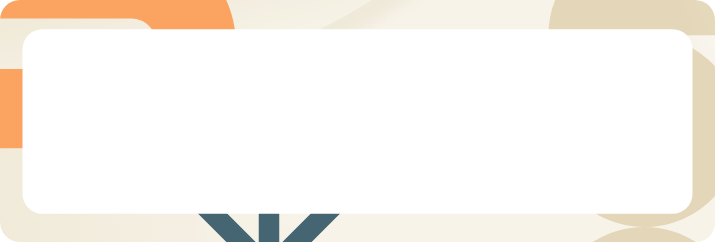
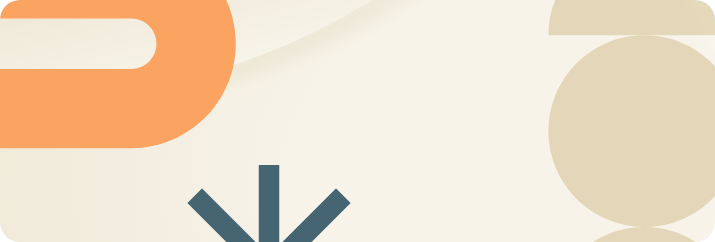
tema 9

diff --git a/src/views/Tema9.vue b/src/views/Tema9.vue
@@ -15,6 +15,217 @@
           p.mb-0 En los procesos de fabricación y acabado de piezas de joyería, resulta esencial garantizar que los metales mantengan una apariencia limpia, uniforme y libre de impurezas superficiales que puedan afectar su calidad final. Durante las distintas etapas de conformado, soldadura o calentamiento, los metales desarrollan residuos, manchas u óxidos que dificultan su manipulación y alteran su estética. Para enfrentar estos retos, los joyeros recurren a un procedimiento químico específico que permite restaurar la superficie del metal y prepararlo adecuadamente para los siguientes pasos del trabajo artesanal o industrial.
 
     Separador
+    .row.justify-content-center.z-2
+      .col-xl-10
+        #t_9_1.titulo-segundo.color-acento-contenido
+          .h2(data-aos="fade-right") 9.1 Concepto
+    
+    .row.justify-content-center.align-items-center.z-2
+      .col-6.col-md-4.col-lg-2
+        figure
+          img.mb-4.mb-lg-0(src="@/assets/curso/temas/tema9/2.png" alt="Imagen decorativa" data-aos="fade-down")
+      .col-lg-8
+        p El decapado es un proceso químico utilizado para eliminar los óxidos, manchas y residuos superficiales que se forman en los metales preciosos (oro, plata, cobre, bronce) después de ser sometidos a calentamiento, soldadura o recocido. El metal se sumerge en una solución ácida llamada pickle, cuya función es limpiar la superficie sin alterar la estructura interna del material. El resultado es un metal más limpio, brillante y apto para posteriores acabados como pulido, engaste o baños galvánicos.
+
+    Separador
+    .row.justify-content-center.z-2
+      .col-xl-10
+        #t_9_2.titulo-segundo.color-acento-contenido
+          .h2(data-aos="fade-right") 9.2 Clases
+    .row.justify-content-center.align-items-center.mb-5
+      .col-10.col-md-6.col-lg-3
+        figure
+          img.mb-4.mb-lg-0(src="@/assets/curso/temas/tema9/3.png" alt="Imagen decorativa" data-aos="fade-down")
+      .col-lg-7
+        p Las diversas clases de decapado utilizadas en joyería surgen de la necesidad de adaptar el proceso de limpieza a las características del metal, al nivel de oxidación presente y al tipo de tratamiento térmico o de soldadura aplicado previamente. Estas variantes permiten seleccionar el método más adecuado según la intensidad de los residuos, la delicadeza de la pieza y los resultados esperados, garantizando así un procedimiento seguro, eficiente y acorde con las exigencias técnicas del trabajo joyero.
+        p.mb-0 Aunque todos cumplen la misma función, pueden clasificarse según su intensidad y finalidad:
+
+    .row.justify-content-center.z-2.mb-4.mb-lg-5
+      .col-sm-6.col-xl-4.mb-4.mb-xl-0
+        .crd_hover_txt(data-aos="flip-left")
+          .crd_hover_txt--img
+            figure
+              img(data-aos="fade-down")(src="@/assets/curso/temas/tema9/4.png", alt="Imagen decorativa")
+          .crd_hover_txt--body.bg-color-primario-p5
+            h4.mb-4.text-center Decapado suave
+            ul.checklist
+              li.mb-3 Diseñado para piezas delicadas o metales sensibles.
+              li.mb-3 Utiliza ácidos poco concentrados.
+              li Limpia óxidos ligeros y manchas superficiales.
+              
+
+      .col-sm-6.col-xl-4.mb-4.mb-xl-0
+        .crd_hover_txt(data-aos="flip-left")
+          .crd_hover_txt--img
+            figure
+              img(data-aos="fade-down")(src="@/assets/curso/temas/tema9/5.png", alt="Imagen decorativa")
+          .crd_hover_txt--body.bg-color-primario-p5
+            h4.mb-4.text-center Decapado fuerte
+            ul.checklist
+              li.mb-3 Empleado cuando hay alta presencia de óxidos o residuos endurecidos.
+              li.mb-3 Utiliza soluciones más potentes y requiere mayor control.
+              li No es recomendado para piezas frágiles o con gemas sensibles.
+
+      .col-sm-6.col-xl-4.mb-4.mb-xl-0
+        .crd_hover_txt(data-aos="flip-left")
+          .crd_hover_txt--img
+            figure
+              img(data-aos="fade-down")(src="@/assets/curso/temas/tema9/6.png", alt="Imagen decorativa")
+          .crd_hover_txt--body.bg-color-primario-p5
+            h4.mb-4.text-center Decapado electrolítico
+            ul.checklist
+              li.mb-3 Combina solución ácida con corriente eléctrica.
+              li.mb-3 Acelera el proceso de limpieza.
+              li Puede ser más eficiente en metalurgia de precisión.
+
+
+    Separador
+    .row.justify-content-center.z-2
+      .col-xl-10
+        #t_9_3.titulo-segundo.color-acento-contenido
+          .h2(data-aos="fade-right") 9.3 Técnicas
+    
+    .row.justify-content-center.align-items-center.z-2.mb-5
+      .col-6.col-md-4.col-lg-2
+        figure
+          img.mb-4.mb-lg-0(src="@/assets/curso/temas/tema9/7.png" alt="Imagen decorativa" data-aos="fade-down")
+      .col-lg-8
+        p Las técnicas de decapado en joyería se diferencian principalmente por la forma en que se aplica el agente químico y por la intensidad del proceso requerido para eliminar los óxidos y residuos metálicos. Cada método busca optimizar la limpieza según la naturaleza de la pieza y el tipo de trabajo realizado, garantizando una superficie uniforme y lista para los acabados posteriores.
+
+    .titulo-sexto.color-acento-contenido.mb-4.z-2
+      h5 Tabla 10.
+      span Técnicas de decapado
+    .tabla-a.color-secundario.tabla-a--left.z-2
+      table
+        caption <strong>Fuente:</strong> SENA, 2025.
+        thead(style="background-color: #FAF8F4;")
+          tr
+            th Técnica de decapado
+            th Descripción
+            th Aplicación típica
+            th Ventajas
+            th Limitaciones
+        tbody
+          tr
+            td <strong>Decapado químico por inmersión.</strong>
+            td La pieza se sumerge en una solución ácida caliente para remover óxidos superficiales.
+            td Limpieza de piezas después de soldaduras o recocidos.
+            td Eficiente, uniforme y rápido.
+            td Requiere control de temperatura y manejo cuidadoso de ácidos.
+          tr
+            td <strong>Decapado químico por aplicación localizada.</strong>
+            td El ácido se aplica solo en áreas específicas usando pincel o gotero.
+            td Piezas delicadas o con zonas sensibles a la corrosión.
+            td Reduce riesgo de afectar áreas no deseadas.
+            td Menos uniforme y más lento.
+          tr
+            td <strong>Decapado mecánico suave.</strong>
+            td Uso de abrasivos finos (fibra, lijas suaves) para retirar óxidos manualmente.
+            td Limpieza previa o posterior a procesos menores en metales duros.
+            td Control manual, no requiere químicos.
+            td No elimina óxidos profundos; puede rayar.
+          tr
+            td <strong>Decapado por ultrasonido (con solución decapante suave).</strong>
+            td La vibración ultrasónica potencia la acción de una solución limpiadora.
+            td Limpieza de piezas pequeñas y detalles complejos.
+            td Muy eficiente en cavidades y filigranas.
+            td Requiere equipo especializado.
+          tr
+            td <strong>Decapado térmico + químico.</strong>
+            td Se calienta la pieza para oxidar completamente y luego se limpia en ácido.
+            td Preparación para acabado final o restauraciones.
+            td Elimina completamente la capa superficial.
+            td Debe hacerse con precisión para evitar fragilización.
+
+    Separador
+    .row.justify-content-center.z-2
+      .col-xl-10
+        #t_9_4.titulo-segundo.color-acento-contenido
+          .h2(data-aos="fade-right") 9.4 Tipos de ácidos para decapados
+    .row.justify-content-center.align-items-center.factores-slider.z-2.mb-5
+
+      .col-10.col-sm-6.col-lg-3
+        figure
+          img.mb-4.mb-lg-0(src="@/assets/curso/temas/tema9/8.png" alt="Imagen decorativa" data-aos="fade-down")
+      .col-lg-9.col-xl-7
+        p Cada ácido posee propiedades químicas específicas que actúan de manera distinta sobre los óxidos metálicos y las impurezas generadas durante la fundición, el recocido o la soldadura. Comprender sus características, concentraciones recomendadas y niveles de reactividad permite seleccionar la opción más segura y efectiva, optimizando la preparación de las piezas para etapas posteriores de acabado.
+        p.mb-0 Entre los más usados tenemos:
+
+
+    .row.justify-content-center.align-items-center.z-2
+      .col-xl-10
+        .titulo-sexto.color-acento-contenido.mb-4.z-2
+          h5 Tabla 11.
+          span Tipos de ácidos utilizados en el decapado
+        .tabla-a.color-secundario.tabla-a--left.z-2
+          table
+            caption <strong>Fuente:</strong> SENA, 2025.
+            thead(style="background-color: #FAF8F4;")
+              tr
+                th Ácido / Solución
+                th Uso principal
+                th Consideraciones
+            tbody
+              tr
+                td <strong>Ácido sulfúrico diluido (10-20 %).</strong>
+                td Decapado fuerte y general.
+                td Requiere calor; muy efectivo para plata y cobre.
+              tr
+                td <strong>Ácido nítrico diluido.</strong>
+                td Eliminación rápida de óxidos.
+                td Puede dañar aleaciones sensibles; muy corrosivo.
+              tr
+                td <strong>Bisulfato sódico comercial (Sparex).</strong>
+                td Decapado suave y seguro.
+                td Amplio uso en joyería; menos peligroso.
+              tr
+                td <strong>Ácido clorhídrico diluido.</strong>
+                td Remover óxidos de cobre y latón.
+                td No recomendable para plata por riesgo de pitting.
+              tr
+                td <strong>Soluciones comerciales "pickle"</strong>
+                td Limpieza controlada para metales preciosos.
+                td Fáciles de usar, menos tóxicas.
+
+
+    Separador
+    .row.justify-content-center.z-2
+      .col-xl-10
+        #t_9_5.titulo-segundo.color-acento-contenido
+          .h2(data-aos="fade-right") 9.5 Cuidados en el uso de decapantes
+
+    .row.justify-content-center.z-2
+      .col-xl-10
+        p La correcta aplicación de los cuidados garantiza no solo la integridad del joyero, sino también la calidad del metal, la preservación de las herramientas y la prevención de accidentes en el taller. A continuación, se presentan los cuidados esenciales clasificados en grupos para su estudio y aplicación.
+
+    .row.justify-content-center.align-items-center.z-2.factores-slider
+      .col-10.col-md-6.col-lg-3
+        figure
+          img.mb-4.mb-lg-0(src="@/assets/curso/temas/tema9/10.png" alt="Imagen decorativa" data-aos="fade-down")
+      .col-lg-9.col-xl-7
+        .bg-slider.p-4.rounded-4
+          SlyderF(columnas="col-12")
+            .tarjeta.tarjeta--blanca.p-4
+              h4.mb-4 Seguridad personal
+              p Uso obligatorio de guantes resistentes a químicos, gafas protectoras, mascarilla para vapores y ropa de trabajo que cubra la piel.
+            .tarjeta.tarjeta--blanca.p-4
+              h4.mb-4 Manipulación de ácidos
+              p Agregar el ácido al agua (nunca al revés), usar recipientes no reactivos, evitar aluminio, controlar la temperatura y mantener herramientas sin grasa.
+            .tarjeta.tarjeta--blanca.p-4
+              h4.mb-4 Área de trabajo
+              p Garantizar buena ventilación, disponer de agua cercana, usar superficies resistentes a la corrosión y tener bicarbonato como neutralizante.
+            .tarjeta.tarjeta--blanca.p-4
+              h4.mb-4 Proceso de decapado
+              p Usar pinzas adecuadas, no mezclar metales, controlar tiempos de inmersión, enjuagar con agua y neutralizar con bicarbonato al finalizar.
+            .tarjeta.tarjeta--blanca.p-4
+              h4.mb-4 Mantenimiento del decapante
+              p Cambiar la solución cuando pierda eficacia, no mezclar ácidos nuevos con viejos, filtrar impurezas y almacenar correctamente con rótulos.
+            .tarjeta.tarjeta--blanca.p-4
+              h4.mb-4 Disposición ambiental
+              p Neutralizar el ácido antes de desecharlo y llevarlo a gestores autorizados; nunca verterlo activo al desagüe.
+            .tarjeta.tarjeta--blanca.p-4
+              h4.mb-4 Detección de peligros
+              p Estar atento a olores fuertes, cambios de color, ebullición repentina o manchas en el metal; detener el proceso de inmediato ante cualquier señal.
 
 </template>
 

diff --git a/src/views/Tema7.vue b/src/views/Tema7.vue
@@ -83,11 +83,11 @@
       .col-xl-10
         #t_7_2.titulo-segundo.color-acento-contenido
           .h2(data-aos="fade-right") 7.2 Técnicas
-          
+
     .row.justify-content-center.align-items-center.factores-slider.z-2.mb-5
       .col-10.col-sm-6.col-lg-3
         figure
-          img(src="@/assets/curso/temas/tema7/10.png" alt="Imagen decorativa" data-aos="fade-down")
+          img.mb-4.mb-lg-0(src="@/assets/curso/temas/tema7/10.png" alt="Imagen decorativa" data-aos="fade-down")
       .col-lg-9.col-xl-7
         p.mb-0 Las técnicas de colado en joyería constituyen un conjunto de procedimientos fundamentales para transformar el metal fundido en piezas con formas definidas y precisión dimensional. Estas técnicas permiten reproducir diseños complejos, garantizar la calidad estructural del metal y optimizar la producción de elementos ornamentales. Su adecuada aplicación implica comprender los principios físicos del flujo del metal, las propiedades térmicas de los materiales involucrados y las condiciones operativas que influyen en el resultado final. Por ello, seleccionar la técnica de colado correcta es esencial para obtener piezas de alta calidad, con buen acabado superficial y mínima porosidad.
 

diff --git a/src/styles/_custom.sass b/src/styles/_custom.sass
@@ -75,6 +75,12 @@ figcaption, caption
   background-position: center
   background-repeat: no-repeat
 
+.bg-slider
+  background-image: url("../assets/curso/temas/tema9/bg-1.png")
+  background-size: cover
+  background-position: center
+  background-repeat: no-repeat
+
 .bg-ring
   background-image: url("../assets/curso/temas/tema3/bg-orange.png")
   background-repeat: no-repeat
@@ -353,3 +359,6 @@ figcaption, caption
     background-color: $color-acento-contenido
     color: white
 
+.bg-slider
+  .slyder-f
+    background-color: $white
